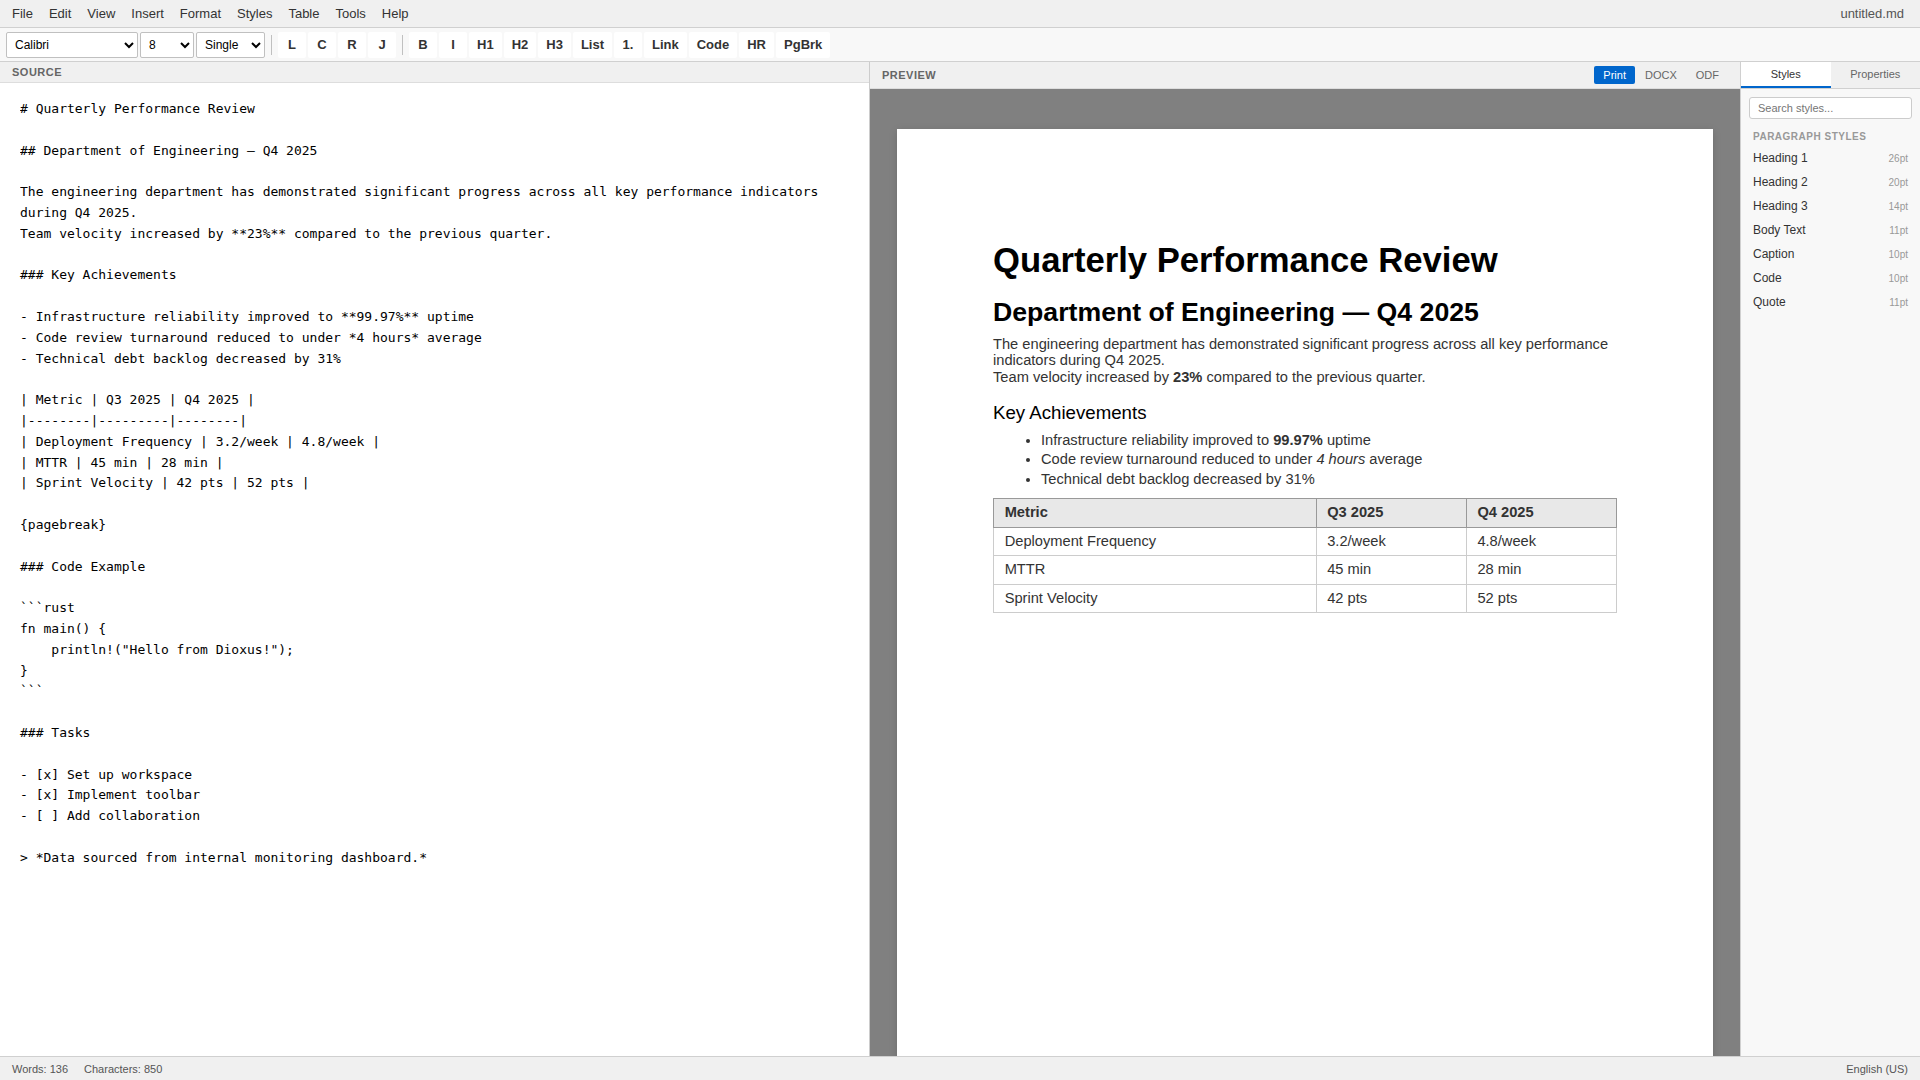
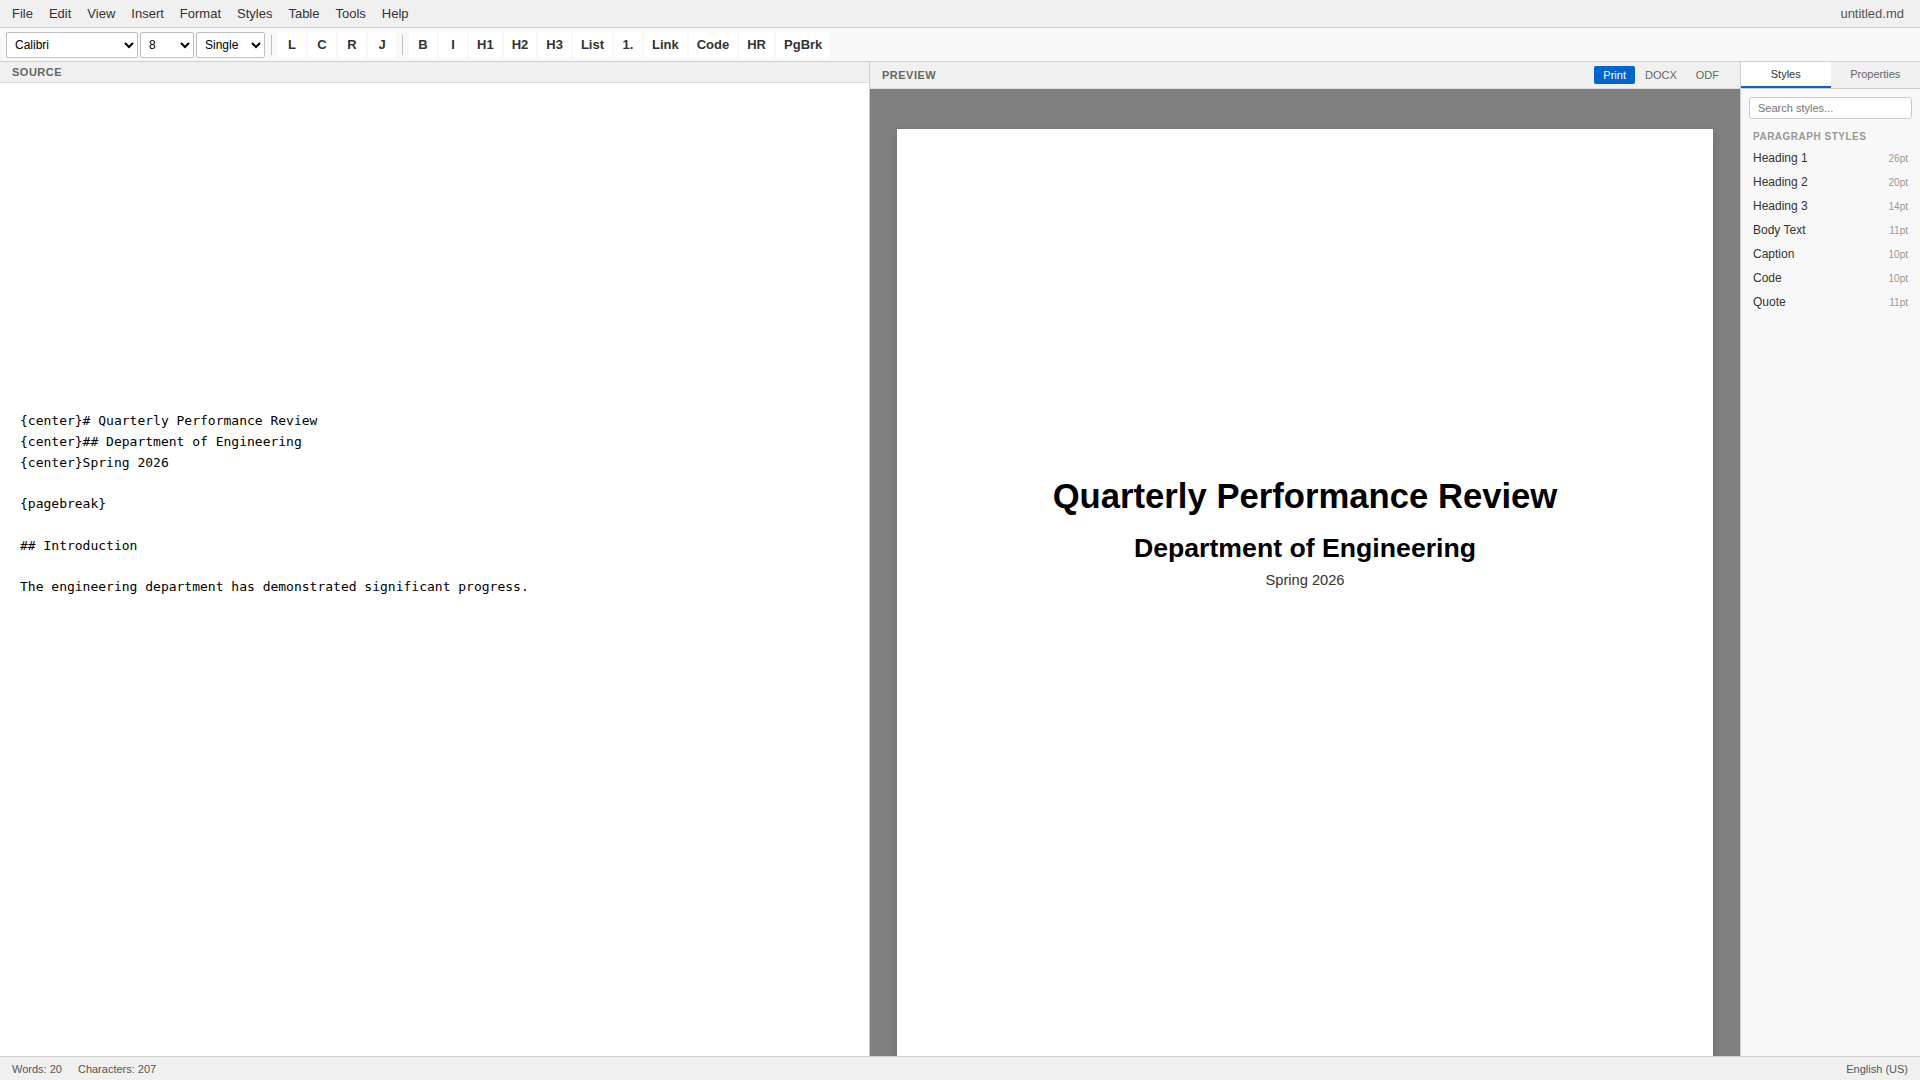
Fix centering, newlines, and page breaks in all preview modes
- Rewrite preview preprocessing to use text-content matching for
  alignment (no more fragile paragraph index counting)
- {center}, {right}, {justify} prefixes now work correctly even
  with blank lines before headings (title page pattern)
- Enable hardbreaks so single Enter = visible line break
- All preview modes (Print/DOCX/ODF) render as separate page divs
- Blank lines create visible vertical spacing (NBSP paragraphs)
- 150 tests (81 Rust + 69 Playwright) all passing

https://claude.ai/code/session_01M5NePFJJA5piMBzoe2iSFS

diff --git a/crates/frontend/src/preview_pane.rs b/crates/frontend/src/preview_pane.rs
@@ -21,8 +21,8 @@ pub fn PreviewPane(
 
         let processed = preprocess_markdown(&text);
         let mut base_html = markdown_preview::render_preview(&processed.clean_md);
-        base_html = apply_alignments(&base_html, &processed.alignments);
-        base_html = insert_page_breaks(&base_html, &processed.page_break_indices);
+        base_html = apply_alignments_by_content(&base_html, &processed.align_map);
+        base_html = apply_page_breaks(&base_html, &processed.page_break_after);
 
         match m.as_str() {
             "docx" => render_docx_preview(&base_html, &ds),
@@ -41,25 +41,22 @@ pub fn PreviewPane(
 
 struct ProcessedMarkdown {
     clean_md: String,
-    alignments: Vec<String>,
-    page_break_indices: Vec<usize>, // paragraph indices that should have a page break before them
+    /// Map from stripped text content -> alignment (e.g. "My Title" -> "center")
+    align_map: Vec<(String, String)>,
+    /// Text content of paragraphs that should have a page break BEFORE them
+    page_break_after: Vec<String>,
 }
 
-/// Pre-process markdown: strip alignment prefixes, handle {pagebreak},
-/// and preserve blank lines as explicit spacing.
 fn preprocess_markdown(markdown: &str) -> ProcessedMarkdown {
     let mut clean_lines: Vec<String> = Vec::new();
-    let mut alignments: Vec<String> = Vec::new();
-    let mut page_break_indices: Vec<usize> = Vec::new();
-    let mut current_align = "left".to_string();
-    let mut para_count = 0;
+    let mut align_map: Vec<(String, String)> = Vec::new();
+    let mut page_break_after: Vec<String> = Vec::new();
     let mut consecutive_blanks = 0;
+    let mut next_has_page_break = false;
 
     for line in markdown.lines() {
-        // Handle page breaks
         if line.trim() == "{pagebreak}" {
-            page_break_indices.push(para_count);
-            // Add a blank line so comrak creates a paragraph boundary
+            next_has_page_break = true;
             clean_lines.push(String::new());
             consecutive_blanks = 0;
             continue;
@@ -69,31 +66,30 @@ fn preprocess_markdown(markdown: &str) -> ProcessedMarkdown {
 
         if text.trim().is_empty() {
             consecutive_blanks += 1;
-            // First blank line is a normal paragraph separator.
-            // Additional blank lines become explicit spacing (non-breaking space paragraph).
             if consecutive_blanks > 1 {
-                clean_lines.push("\u{00a0}".to_string()); // NBSP = visible empty paragraph
+                clean_lines.push("\u{00a0}".to_string());
             } else {
                 clean_lines.push(String::new());
             }
-            current_align = "left".to_string();
             continue;
         }
 
-        // This is a non-empty line
+        // Record alignment for this line's text content
         if align != "left" {
-            current_align = align.to_string();
+            // Strip markdown heading prefix to get the text that will appear in HTML
+            let display_text = text.trim().trim_start_matches('#').trim().to_string();
+            if !display_text.is_empty() {
+                align_map.push((display_text, align.to_string()));
+            }
         }
 
-        // Track if this starts a new paragraph (preceded by blank or is first)
-        let starts_para = clean_lines.is_empty() || {
-            let prev = clean_lines.last().map(|s| s.as_str()).unwrap_or("");
-            prev.is_empty() || prev == "\u{00a0}"
-        };
-
-        if starts_para {
-            alignments.push(current_align.clone());
-            para_count += 1;
+        // Record page break before this content
+        if next_has_page_break {
+            let display_text = text.trim().trim_start_matches('#').trim().to_string();
+            if !display_text.is_empty() {
+                page_break_after.push(display_text);
+            }
+            next_has_page_break = false;
         }
 
         consecutive_blanks = 0;
@@ -102,24 +98,39 @@ fn preprocess_markdown(markdown: &str) -> ProcessedMarkdown {
 
     ProcessedMarkdown {
         clean_md: clean_lines.join("\n"),
-        alignments,
-        page_break_indices,
+        align_map,
+        page_break_after,
     }
 }
 
-/// Post-process HTML to apply text-align to paragraphs/headings.
-fn apply_alignments(html: &str, alignments: &[String]) -> String {
-    let block_tags = ["<p>", "<h1>", "<h2>", "<h3>", "<h4>", "<h5>", "<h6>"];
-    let mut result = String::with_capacity(html.len() + alignments.len() * 30);
-    let mut para_idx = 0;
+/// Apply alignments by finding block elements whose text content matches.
+fn apply_alignments_by_content(html: &str, align_map: &[(String, String)]) -> String {
+    if align_map.is_empty() {
+        return html.to_string();
+    }
+
+    let mut result = String::with_capacity(html.len() + align_map.len() * 40);
 
     for line in html.lines() {
         let trimmed = line.trim();
-        let is_block = block_tags.iter().any(|tag| trimmed.starts_with(tag));
+        let mut matched = false;
 
-        if is_block {
-            if let Some(align) = alignments.get(para_idx) {
-                if align != "left" {
+        // Check if this is a block-level opening tag
+        if trimmed.starts_with("<p>")
+            || trimmed.starts_with("<h1>")
+            || trimmed.starts_with("<h2>")
+            || trimmed.starts_with("<h3>")
+            || trimmed.starts_with("<h4>")
+            || trimmed.starts_with("<h5>")
+            || trimmed.starts_with("<h6>")
+        {
+            // Extract text content (strip HTML tags)
+            let text_content = strip_tags(trimmed);
+            let text_trimmed = text_content.trim();
+
+            for (content, align) in align_map {
+                if text_trimmed.contains(content.as_str()) {
+                    // Insert style attribute into the opening tag
                     if let Some(close_bracket) = trimmed.find('>') {
                         let tag = &trimmed[..close_bracket];
                         let rest = &trimmed[close_bracket..];
@@ -127,42 +138,49 @@ fn apply_alignments(html: &str, alignments: &[String]) -> String {
                         result.push_str(&format!(r#" style="text-align:{align}""#));
                         result.push_str(rest);
                         result.push('\n');
-                        para_idx += 1;
-                        continue;
+                        matched = true;
+                        break;
                     }
                 }
             }
-            para_idx += 1;
         }
-        result.push_str(line);
-        result.push('\n');
+
+        if !matched {
+            result.push_str(line);
+            result.push('\n');
+        }
     }
 
     result
 }
 
-/// Insert page break dividers at the specified paragraph indices.
-fn insert_page_breaks(html: &str, page_break_indices: &[usize]) -> String {
-    if page_break_indices.is_empty() {
+/// Apply page breaks by inserting a page-break div before matching block elements.
+fn apply_page_breaks(html: &str, page_break_after: &[String]) -> String {
+    if page_break_after.is_empty() {
         return html.to_string();
     }
 
-    let block_tags = ["<p>", "<h1>", "<h2>", "<h3>", "<h4>", "<h5>", "<h6>",
-                      "<ul>", "<ol>", "<table>", "<pre>", "<blockquote>"];
-    let mut result = String::with_capacity(html.len() + page_break_indices.len() * 100);
-    let mut para_idx = 0;
+    let block_starts = ["<p", "<h1", "<h2", "<h3", "<h4", "<h5", "<h6",
+                        "<ul", "<ol", "<table", "<pre", "<blockquote"];
+    let mut result = String::with_capacity(html.len() + page_break_after.len() * 50);
 
     for line in html.lines() {
         let trimmed = line.trim();
-        let is_block = block_tags.iter().any(|tag| trimmed.starts_with(tag));
+        let is_block = block_starts.iter().any(|tag| trimmed.starts_with(tag));
 
         if is_block {
-            if page_break_indices.contains(&para_idx) {
-                result.push_str(r#"<div class="page-break"></div>"#);
-                result.push('\n');
+            let text_content = strip_tags(trimmed);
+            let text_trimmed = text_content.trim();
+
+            for content in page_break_after {
+                if text_trimmed.contains(content.as_str()) {
+                    result.push_str(r#"<div class="page-break"></div>"#);
+                    result.push('\n');
+                    break;
+                }
             }
-            para_idx += 1;
         }
+
         result.push_str(line);
         result.push('\n');
     }
@@ -170,8 +188,22 @@ fn insert_page_breaks(html: &str, page_break_indices: &[usize]) -> String {
     result
 }
 
-/// DOCX preview — uses the exact same DocStyle values as the DOCX export.
-/// Each page is rendered as a separate div with page dimensions.
+/// Strip HTML tags from a string, returning plain text content.
+fn strip_tags(html: &str) -> String {
+    let mut result = String::new();
+    let mut in_tag = false;
+    for ch in html.chars() {
+        match ch {
+            '<' => in_tag = true,
+            '>' => in_tag = false,
+            _ if !in_tag => result.push(ch),
+            _ => {}
+        }
+    }
+    result
+}
+
+/// DOCX preview
 fn render_docx_preview(html: &str, ds: &DocStyle) -> String {
     let f = &ds.body_font;
     let body = ds.body_size_pt;
